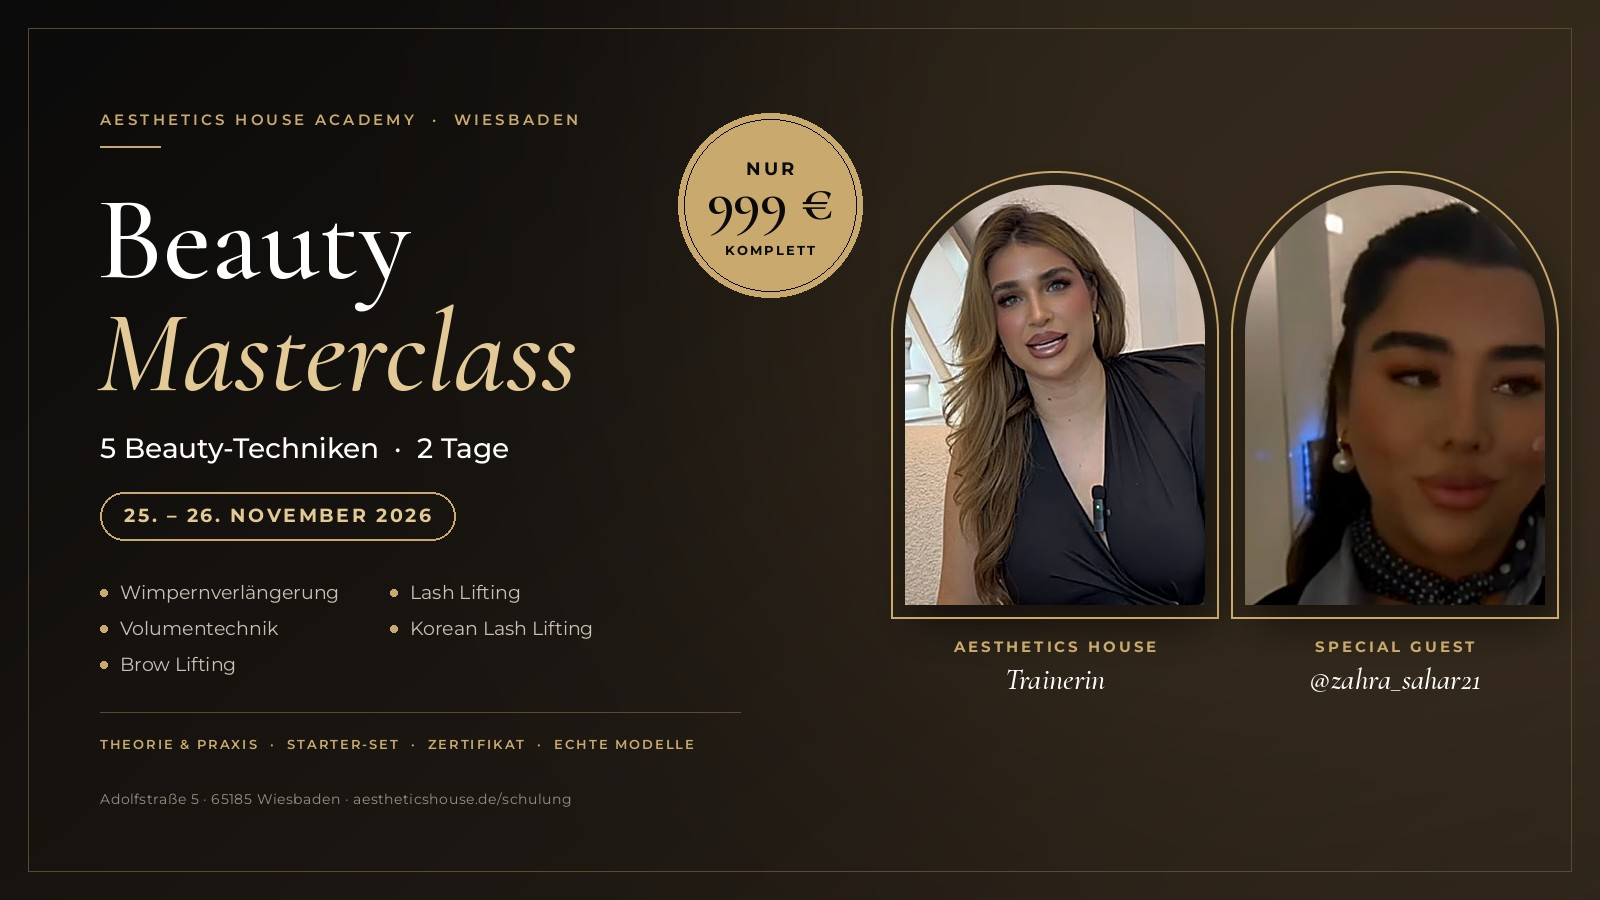
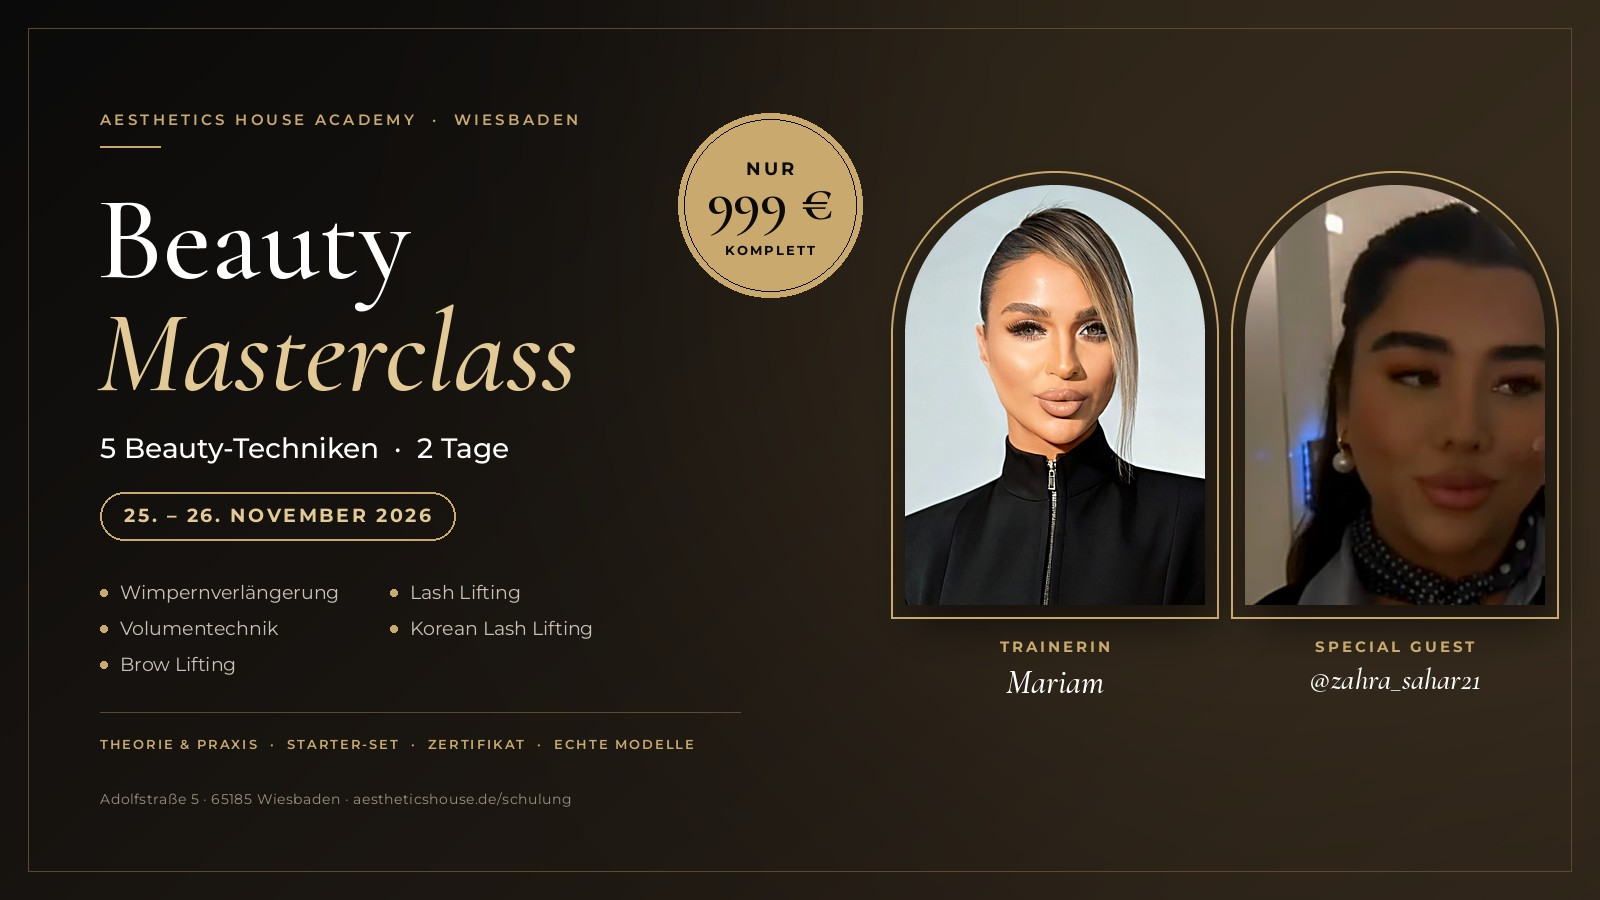
Schulung: neues Foto und Name der Trainerin (Mariam)
Claude-Session: https://claude.ai/code/session_0197V3KVdRYkeoLMWv4w7WVz

Changed region(s): [[0.5625, 0.1867, 0.75, 0.6844], [0.5938, 0.7156, 0.7188, 0.7778]]

diff --git a/schulung/index.html b/schulung/index.html
@@ -186,7 +186,7 @@ footer a:hover{color:var(--gold);}
     <div class="banner-img">
       <picture>
         <source media="(max-width: 700px)" srcset="/img/schulung-portrait.jpg">
-        <img src="/img/schulung-banner.jpg" width="1600" height="900" alt="Beauty Masterclass bei Aesthetics House Wiesbaden am 25.–26. November 2026 mit Special Guest @zahra_sahar21 – 5 Techniken, 2 Tage, 999 €">
+        <img src="/img/schulung-banner.jpg" width="1600" height="900" alt="Beauty Masterclass bei Aesthetics House Wiesbaden am 25.–26. November 2026 mit Trainerin Mariam und Special Guest @zahra_sahar21 – 5 Techniken, 2 Tage, 999 €">
       </picture>
     </div>
     <div>
@@ -245,11 +245,11 @@ footer a:hover{color:var(--gold);}
     <h2>Dein <em>Team</em> an beiden Tagen</h2>
     <div class="team">
       <div class="member">
-        <div class="ph"><img src="/img/schulung-trainerin.jpg" alt="Trainerin von Aesthetics House Wiesbaden" loading="lazy"></div>
+        <div class="ph"><img src="/img/schulung-trainerin.jpg" alt="Mariam – Trainerin bei Aesthetics House Wiesbaden" loading="lazy"></div>
         <div>
-          <span class="role">Aesthetics House</span>
-          <h3>Deine Trainerin</h3>
-          <p>Aus unserem Studio in der Adolfstraße – sie begleitet dich durch alle Techniken und gibt dir ihr Praxiswissen weiter.</p>
+          <span class="role">Trainerin · Aesthetics House</span>
+          <h3>Mariam</h3>
+          <p>Unsere Trainerin aus dem Studio in der Adolfstraße – Mariam begleitet dich durch alle Techniken und gibt dir ihr Praxiswissen weiter.</p>
         </div>
       </div>
       <div class="member">
